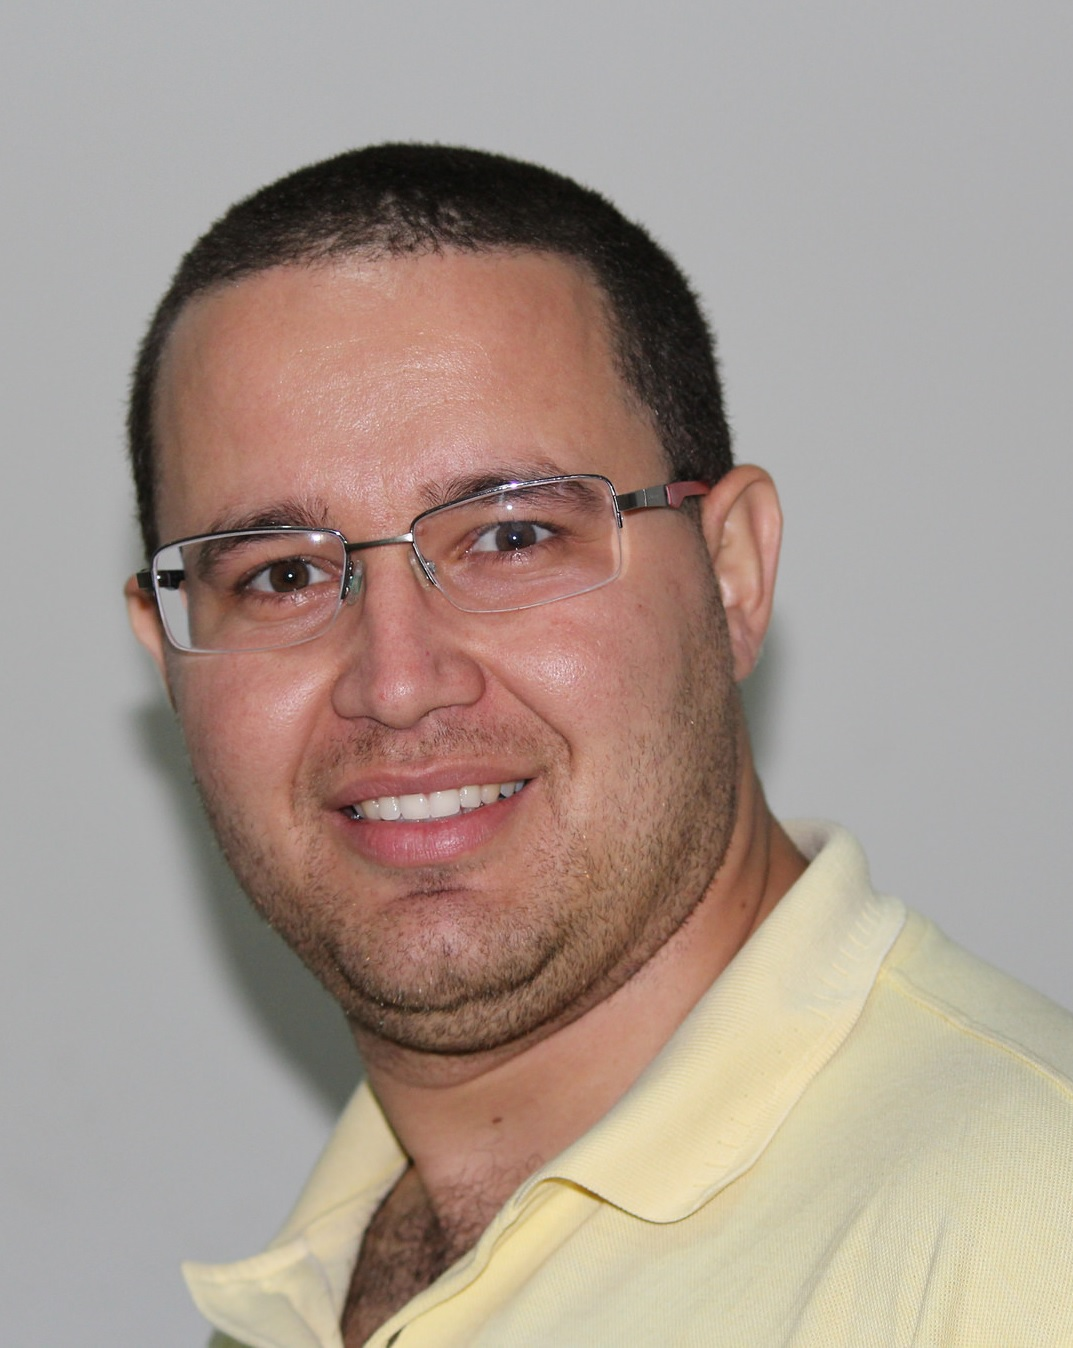
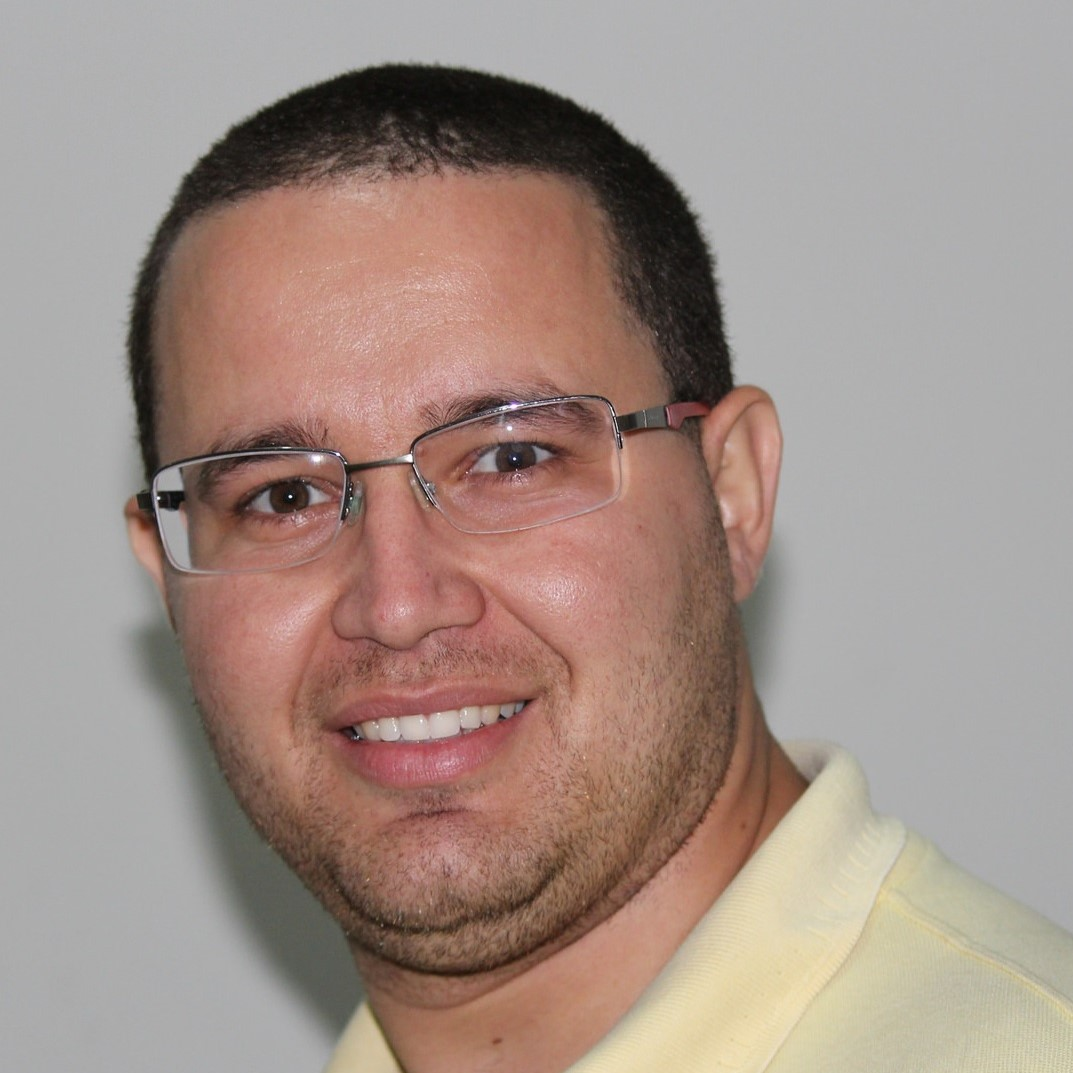
Resized picture to a square aspect ration and adjusted size in CustomHeader

diff --git a/src/CustomHeader/CustomHeader.jsx b/src/CustomHeader/CustomHeader.jsx
@@ -20,8 +20,8 @@ const CustomHeader = () => {
           <img
             className={styles.AvatarImage}
             src={window.location.origin + '/Dickson.jpg'}
-            width={134.1}
-            height={168.5}
+            width={160}
+            height={160}
           />
         </div>
         <div className={styles.BioArea}>
